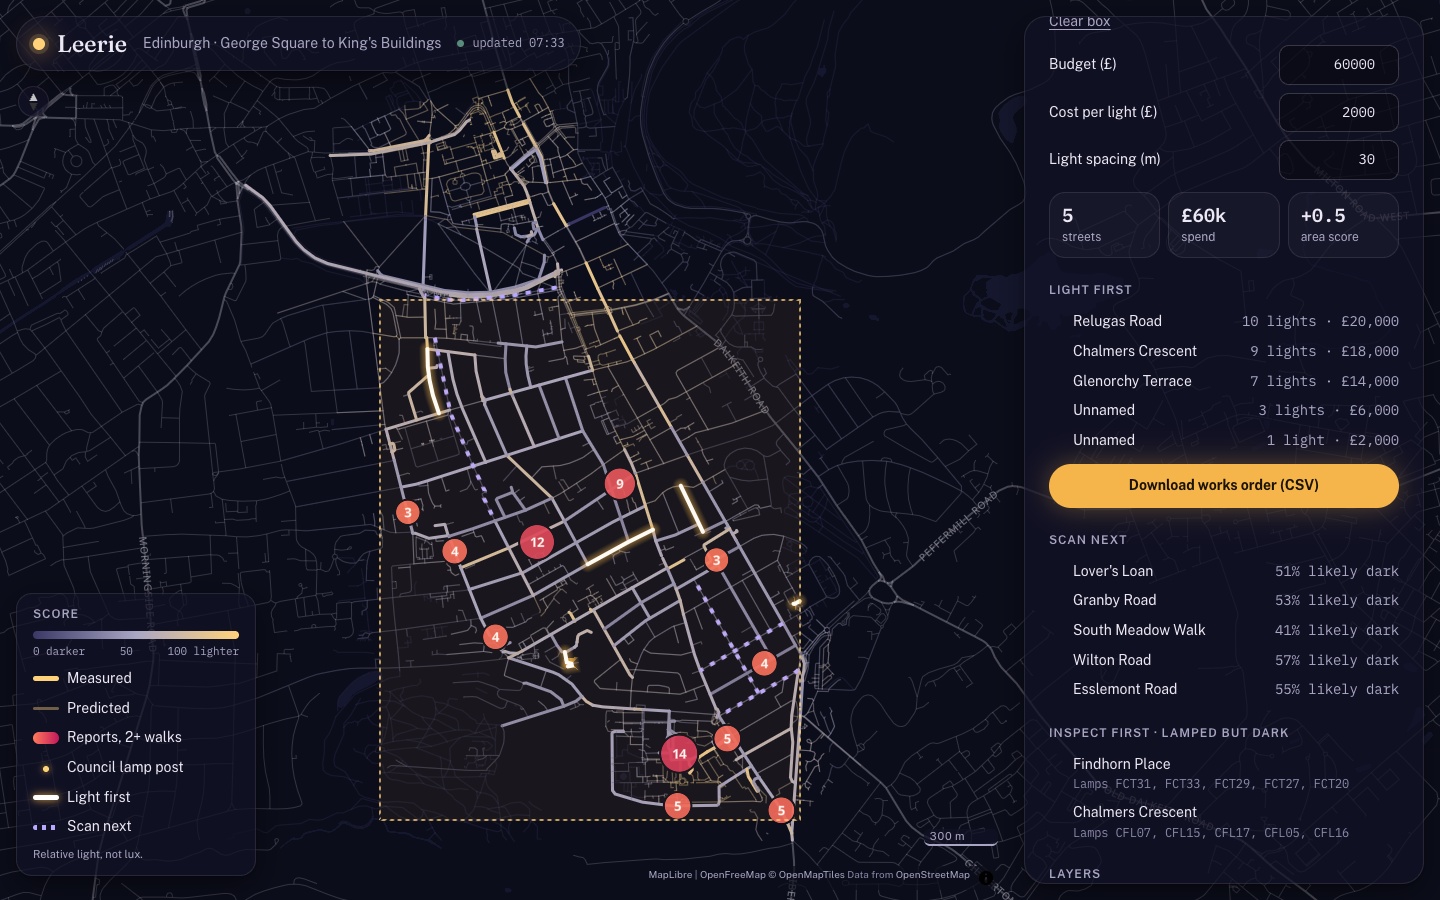
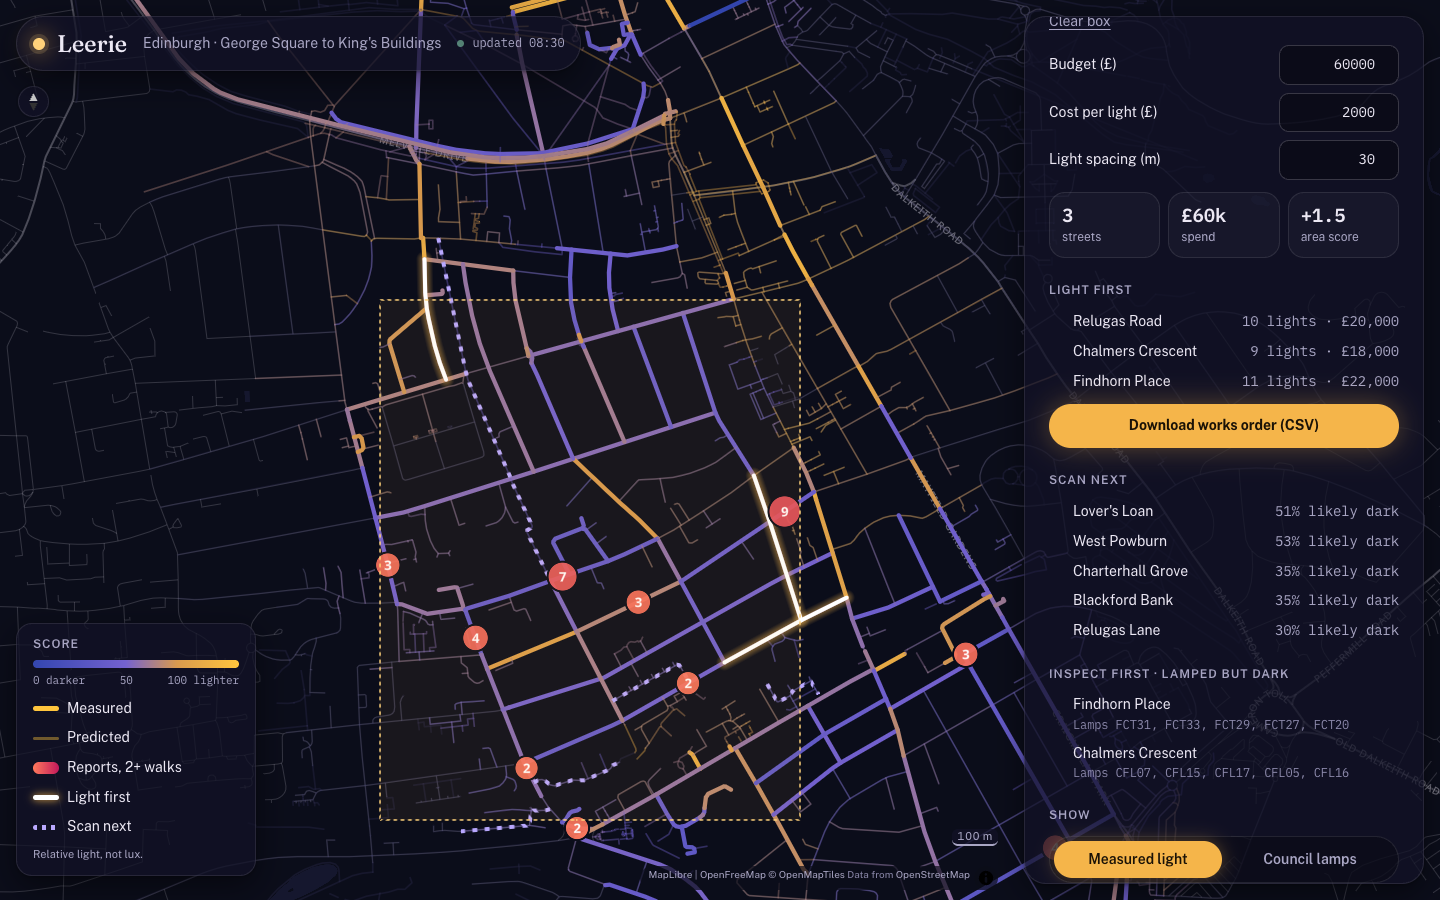
[A] Map: blue-to-amber score ramp that reads without hue; refresh images

diff --git a/dashboard/src/components/leerie/Legend.tsx b/dashboard/src/components/leerie/Legend.tsx
@@ -7,10 +7,10 @@ export function Legend({ mode, layer }: { mode: "map" | "plan"; layer: "light" |
       {layer === "light" ? (
         <>
           <div className="micro secondary">Score</div>
-          <div className="lr-ramp" style={{ background: `linear-gradient(90deg, ${NIGHT.dim}, ${NIGHT.mid}, ${NIGHT.lit})` }} />
+          <div className="lr-ramp" style={{ background: `linear-gradient(90deg, ${NIGHT.ramp.map(([at, c]) => `${c} ${at}%`).join(", ")})` }} />
           <div className="lr-ticks data"><span>0 darker</span><span>50</span><span>100 lighter</span></div>
-          <div className="lr-key"><i /> Measured</div>
-          <div className="lr-key"><i style={{ opacity: 0.4, height: 3 }} /> Predicted</div>
+          <div className="lr-key"><i style={{ background: NIGHT.ramp[3][1] }} /> Measured</div>
+          <div className="lr-key"><i style={{ background: NIGHT.ramp[3][1], opacity: 0.4, height: 3 }} /> Predicted</div>
         </>
       ) : (
         <div className="lr-key"><b className="lr-lampdot" aria-hidden /> Council lamp post</div>

diff --git a/dashboard/src/components/leerie/ScanMap.tsx b/dashboard/src/components/leerie/ScanMap.tsx
@@ -177,7 +177,7 @@ export function ScanMap() {
                 layout={{ "line-cap": "round", "line-join": "round", visibility: layer === "light" ? "visible" : "none" }}
                 paint={{
                   "line-color": ["case", ["==", ["get", "_score"], null], NIGHT.dim,
-                    ["interpolate", ["linear"], ["get", "_score"], 0, NIGHT.dim, 50, NIGHT.mid, 100, NIGHT.lit]],
+                    ["interpolate", ["linear"], ["get", "_score"], ...NIGHT.ramp.flat()]],
                   // Measured solid, predicted faded, no estimate barely there.
                   "line-opacity": ["case", ["get", "measured"], 1, ["==", ["get", "_score"], null], 0.25, 0.4],
                   "line-width": ["interpolate", ["linear"], ["zoom"], 13, ["case", ["get", "measured"], 2.5, 1], 17, ["case", ["get", "measured"], 8, 3]],

diff --git a/dashboard/src/lib/map/tokens.ts b/dashboard/src/lib/map/tokens.ts
@@ -27,6 +27,8 @@ export const NIGHT = {
   lamp: "#f5b54a", // --amber
   hotLow: "#ff7a5c", // --hot-low
   hotHigh: "#c2185b", // --hot-high
+  /** Score ramp, 0 → 100: blue to amber, each stop lighter than the last so it reads without hue. No red: that is reports. */
+  ramp: [[0, "#3346b0"], [45, "#7462d0"], [70, "#d99a4e"], [100, "#ffc53d"]] as const,
   picked: "#ffffff", // Light first: white-hot, off the score ramp
   scan: "#b9a8ff", // Scan next: lavender, off the score ramp
 } as const;
